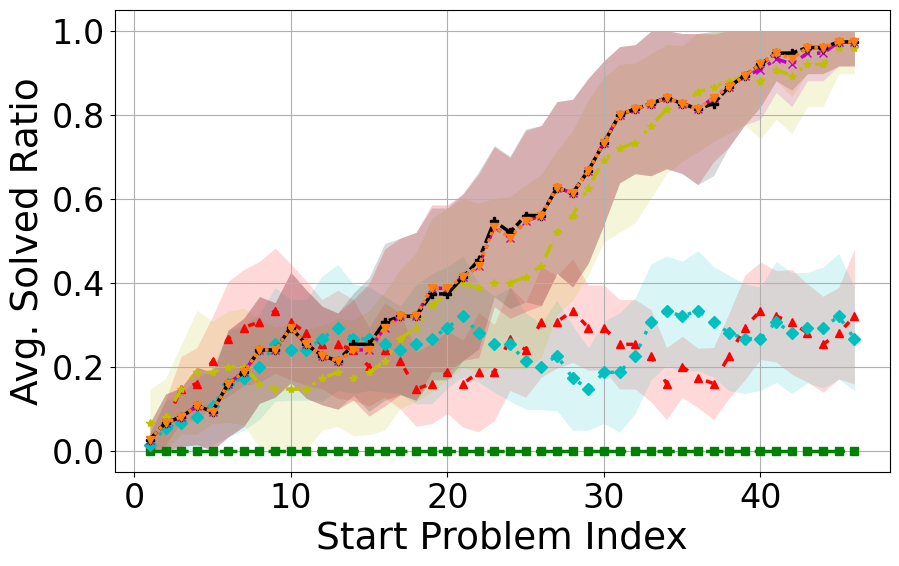
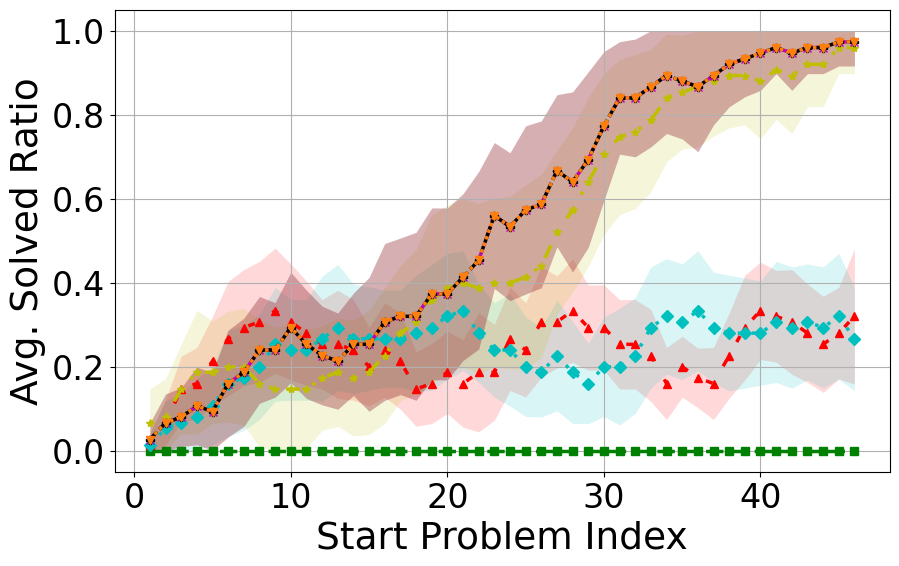
add

diff --git a/solution/main.py b/solution/main.py
@@ -262,7 +262,7 @@ def run_novelties(domain_name, start=1, end=10):
 
 def main_entry():
     clean()
-    if len(sys.argv) < 20:
+    if len(sys.argv) < 2:
         for novelty_number in range(9, 10): #7
             for seed_number in range(1, 2): #6
                 Config.set_seed(seed_number)
